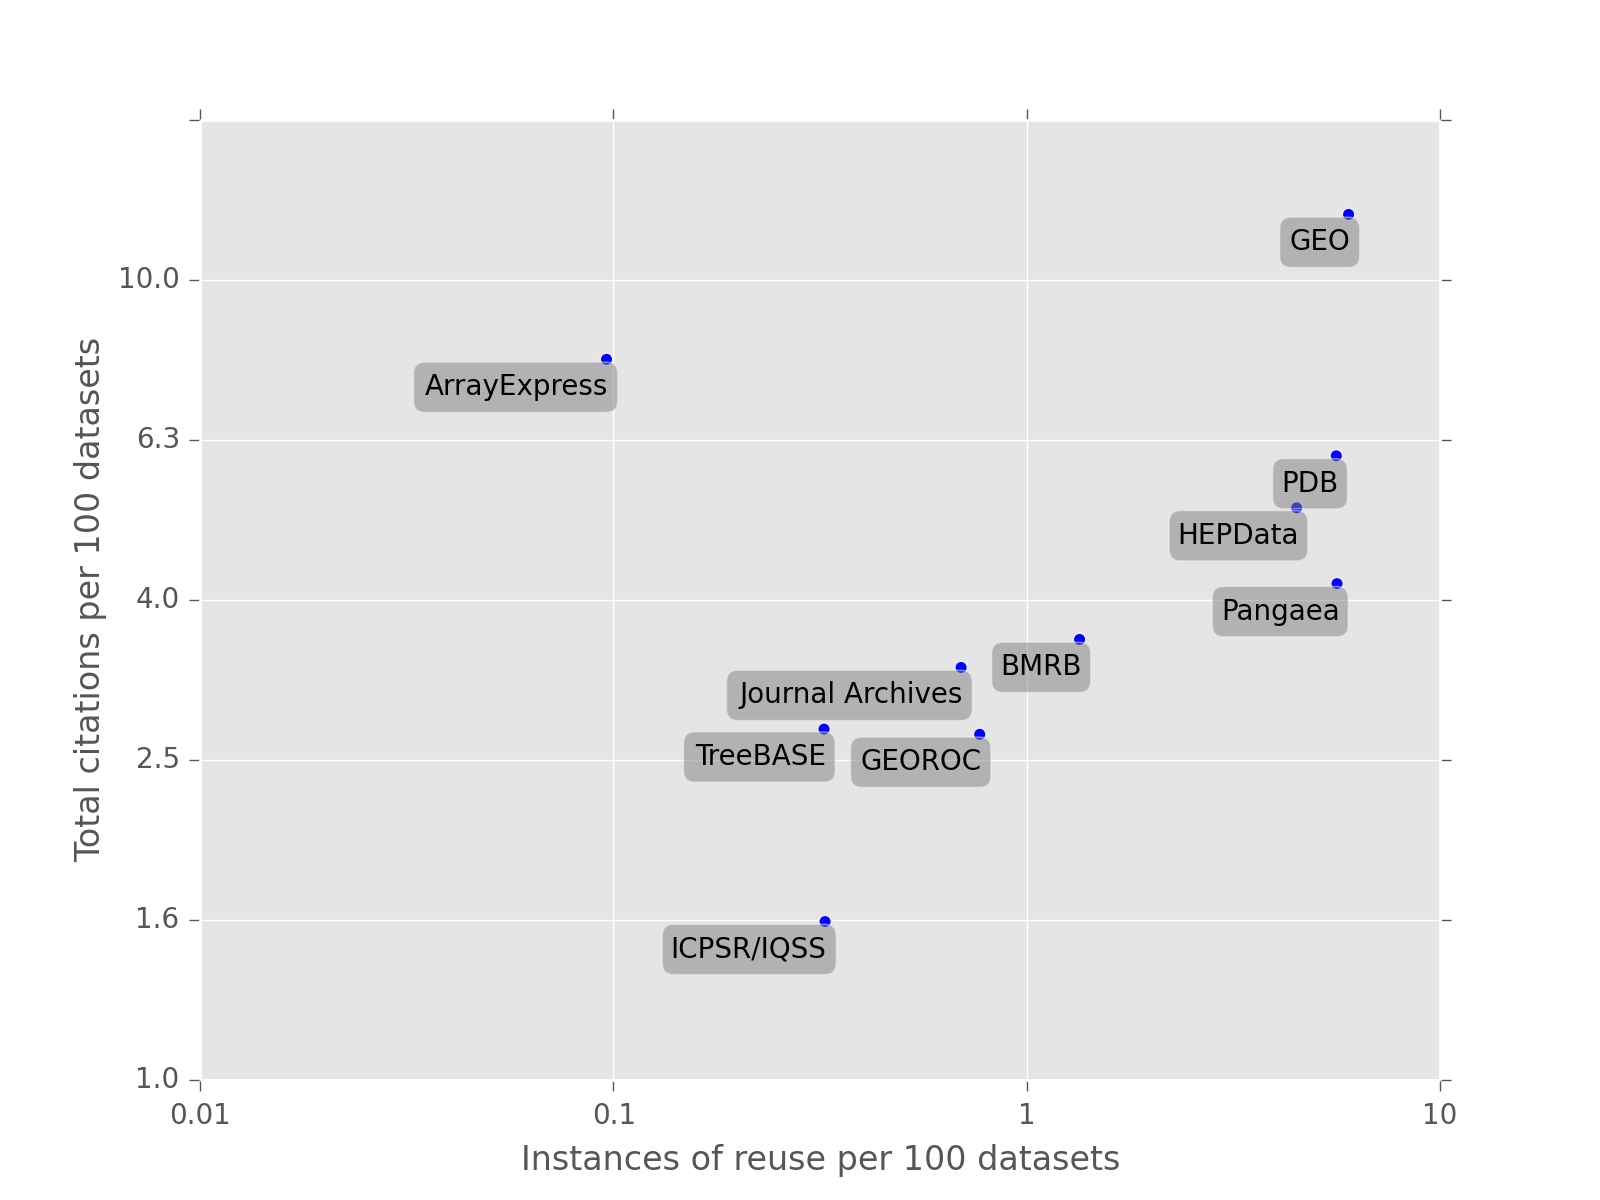
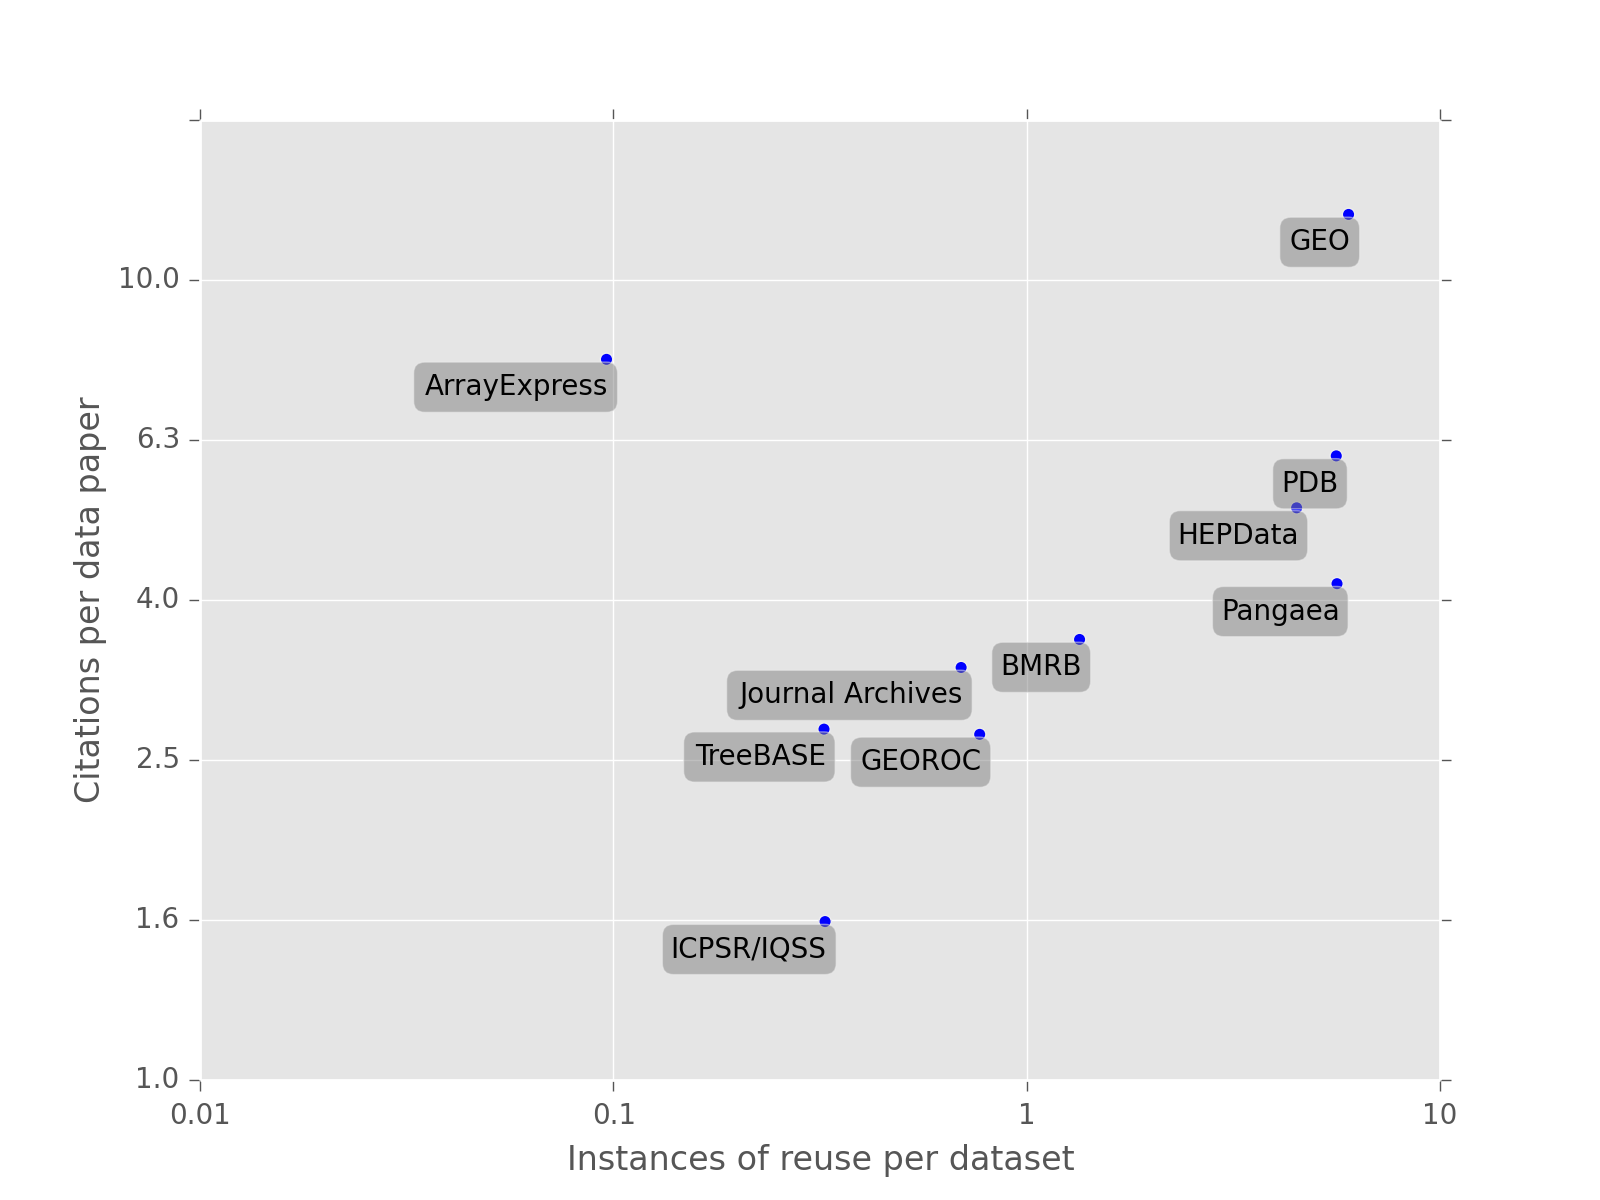
These aren't per 100 datasets, they're per dataset. Whoops.

Changed region(s): [[0.0312, 0.2775, 0.0625, 0.7092], [0.3125, 0.9558, 0.6875, 0.9867]]

diff --git a/scripts/repo_comparison.py b/scripts/repo_comparison.py
@@ -13,7 +13,7 @@ if __name__ == '__main__':
     if len(sys.argv) > 1 and sys.argv[1].endswith('.svg'):
         matplotlib.use('SVG')
     
-    # get the reuse rate for each repo, per 100 datasets
+    # get the reuse rate for each repo, per dataset
     reuses = defaultdict(lambda: 0.0)
     totals = defaultdict(lambda: 0)
     with open('data/reuse_estimates') as input_file:
@@ -29,7 +29,7 @@ if __name__ == '__main__':
             
     reuse_rate = {key: reuses[key] / totals[key] for key in reuses}
     
-    # get the total number of citations per 100 datasets
+    # get the total number of citations per dataset
     citations = defaultdict(lambda: 0.0)
     totals = defaultdict(lambda: 0)
     with open('data/all_datasets.tsv') as input_file:
@@ -51,8 +51,8 @@ if __name__ == '__main__':
     ys = np.log10([citation_rate[key] for key in reuses])
     labels = reuses.keys()
     
-    plt.xlabel('Instances of reuse per 100 datasets')
-    plt.ylabel('Total citations per 100 datasets')
+    plt.xlabel('Instances of reuse per dataset')
+    plt.ylabel('Citations per data paper')
     
     plt.xlim(-2,1)
     
